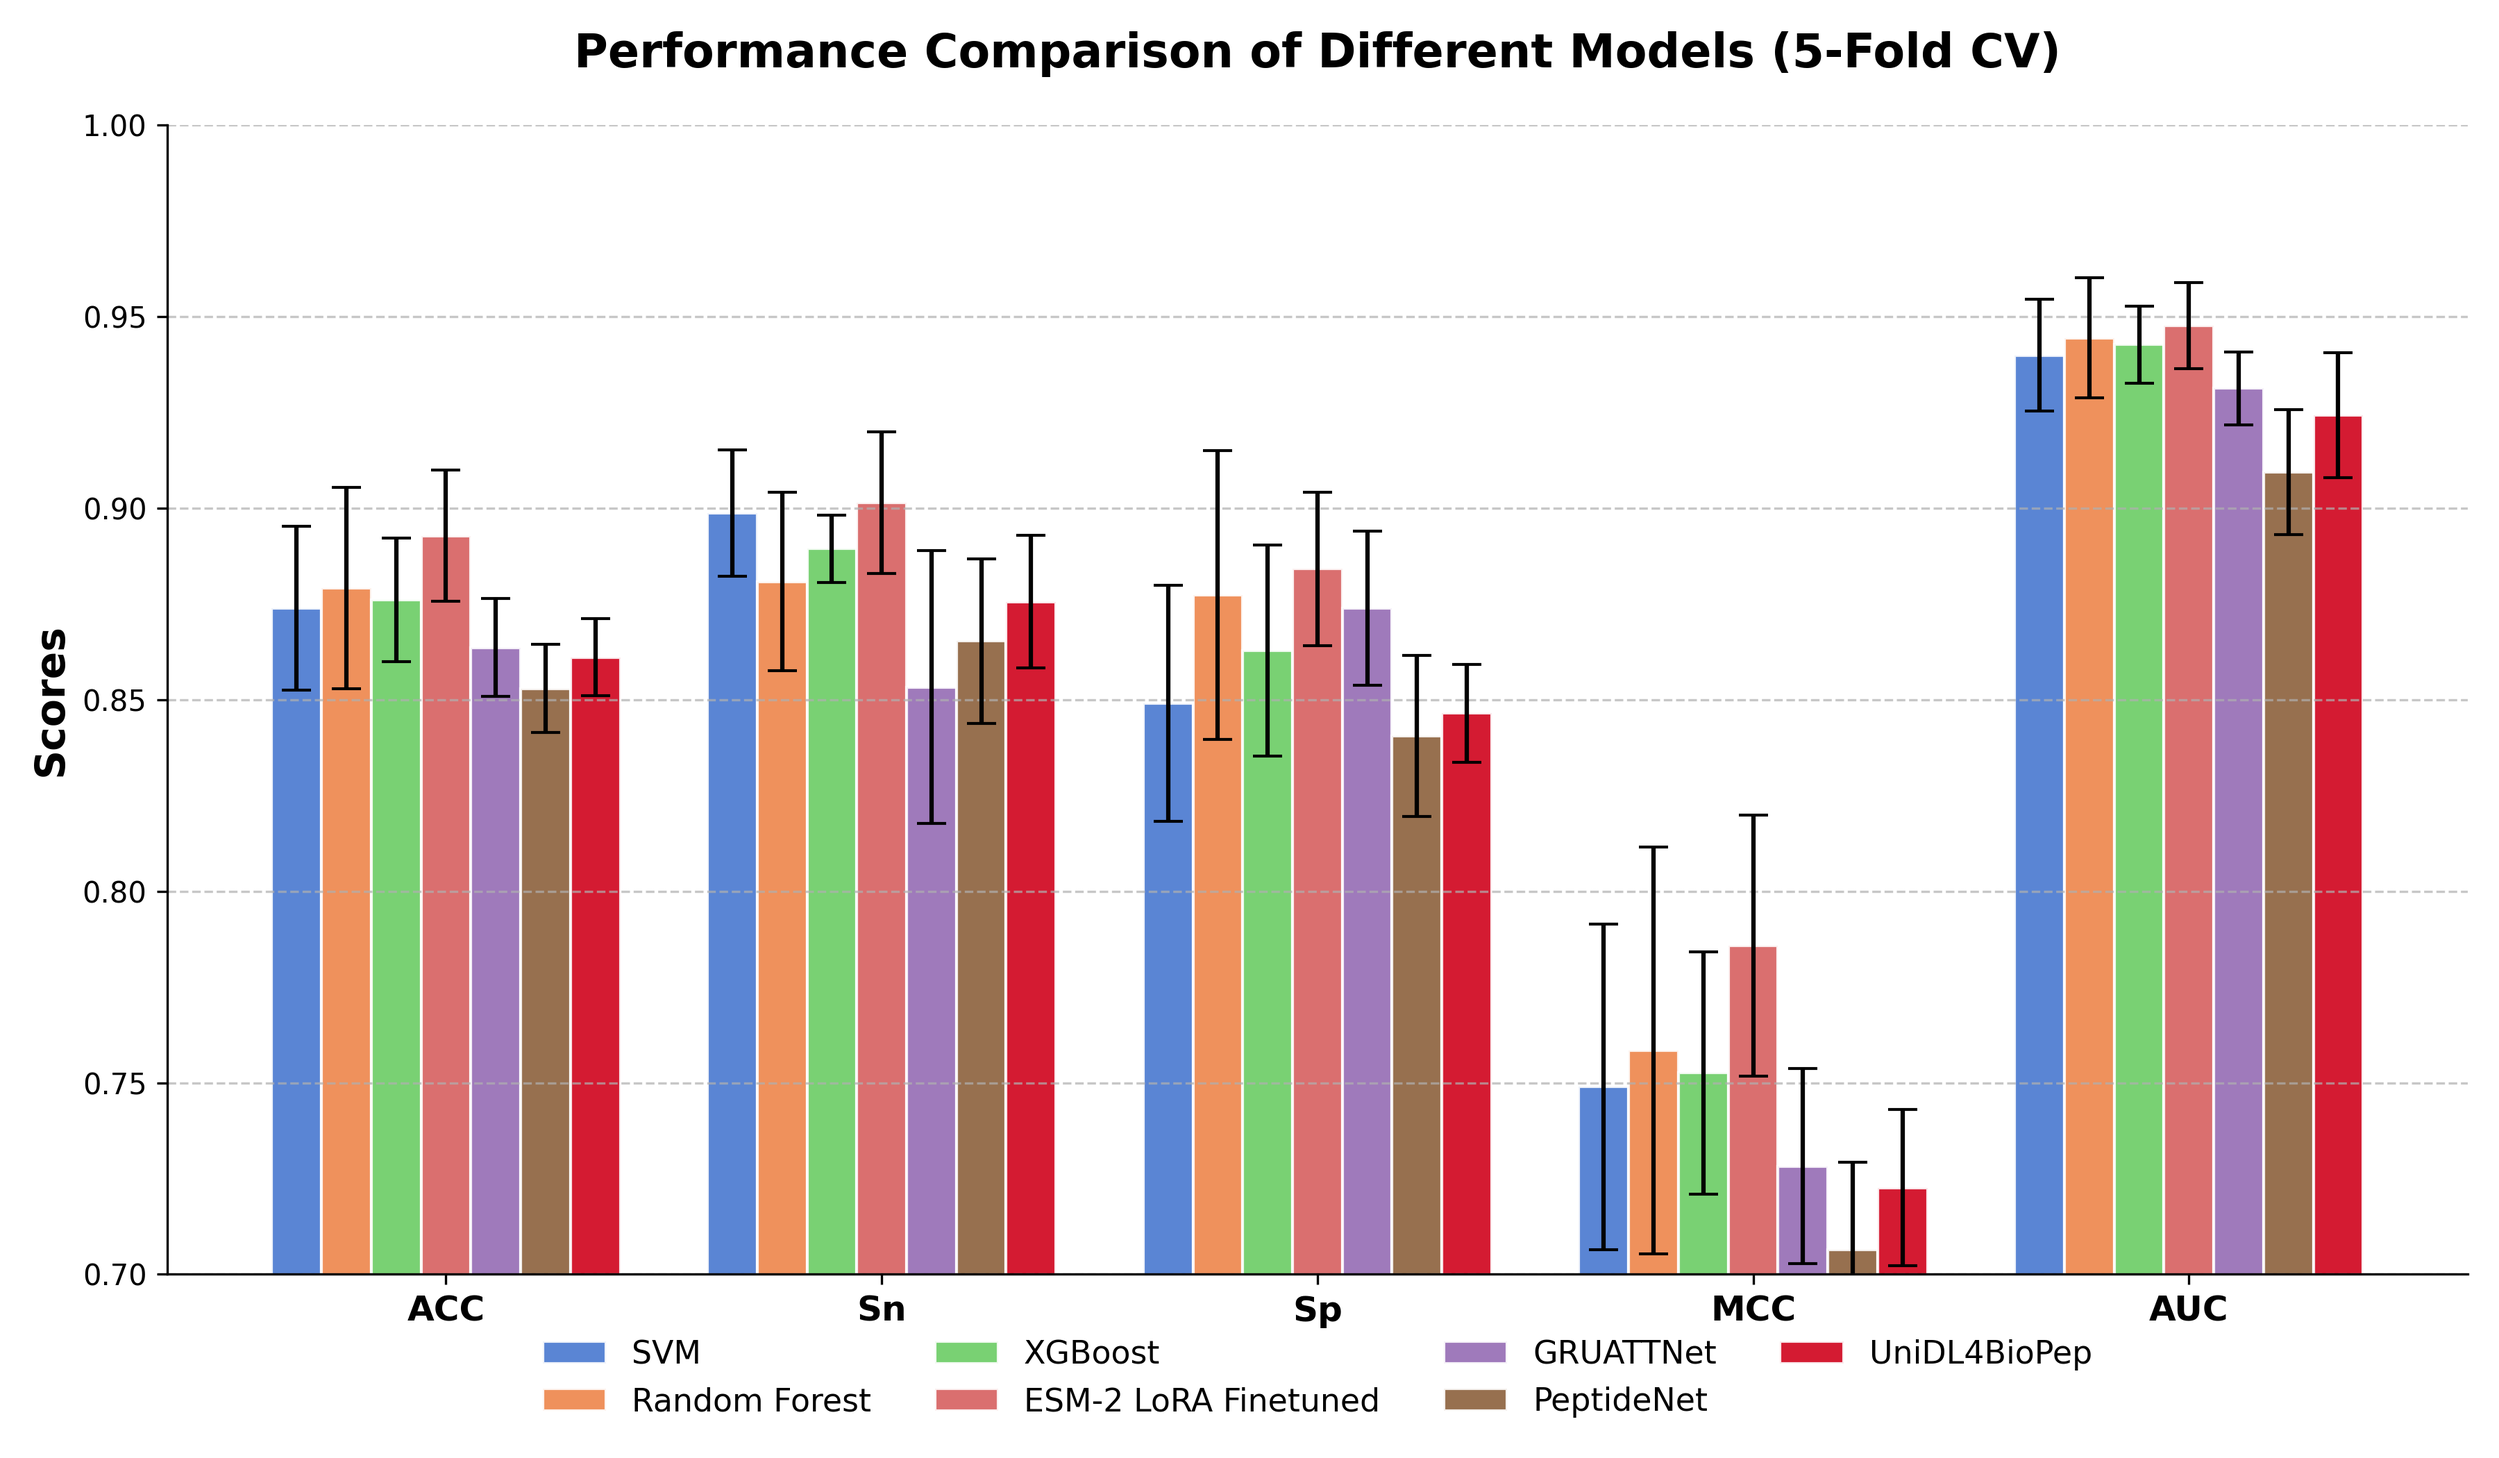
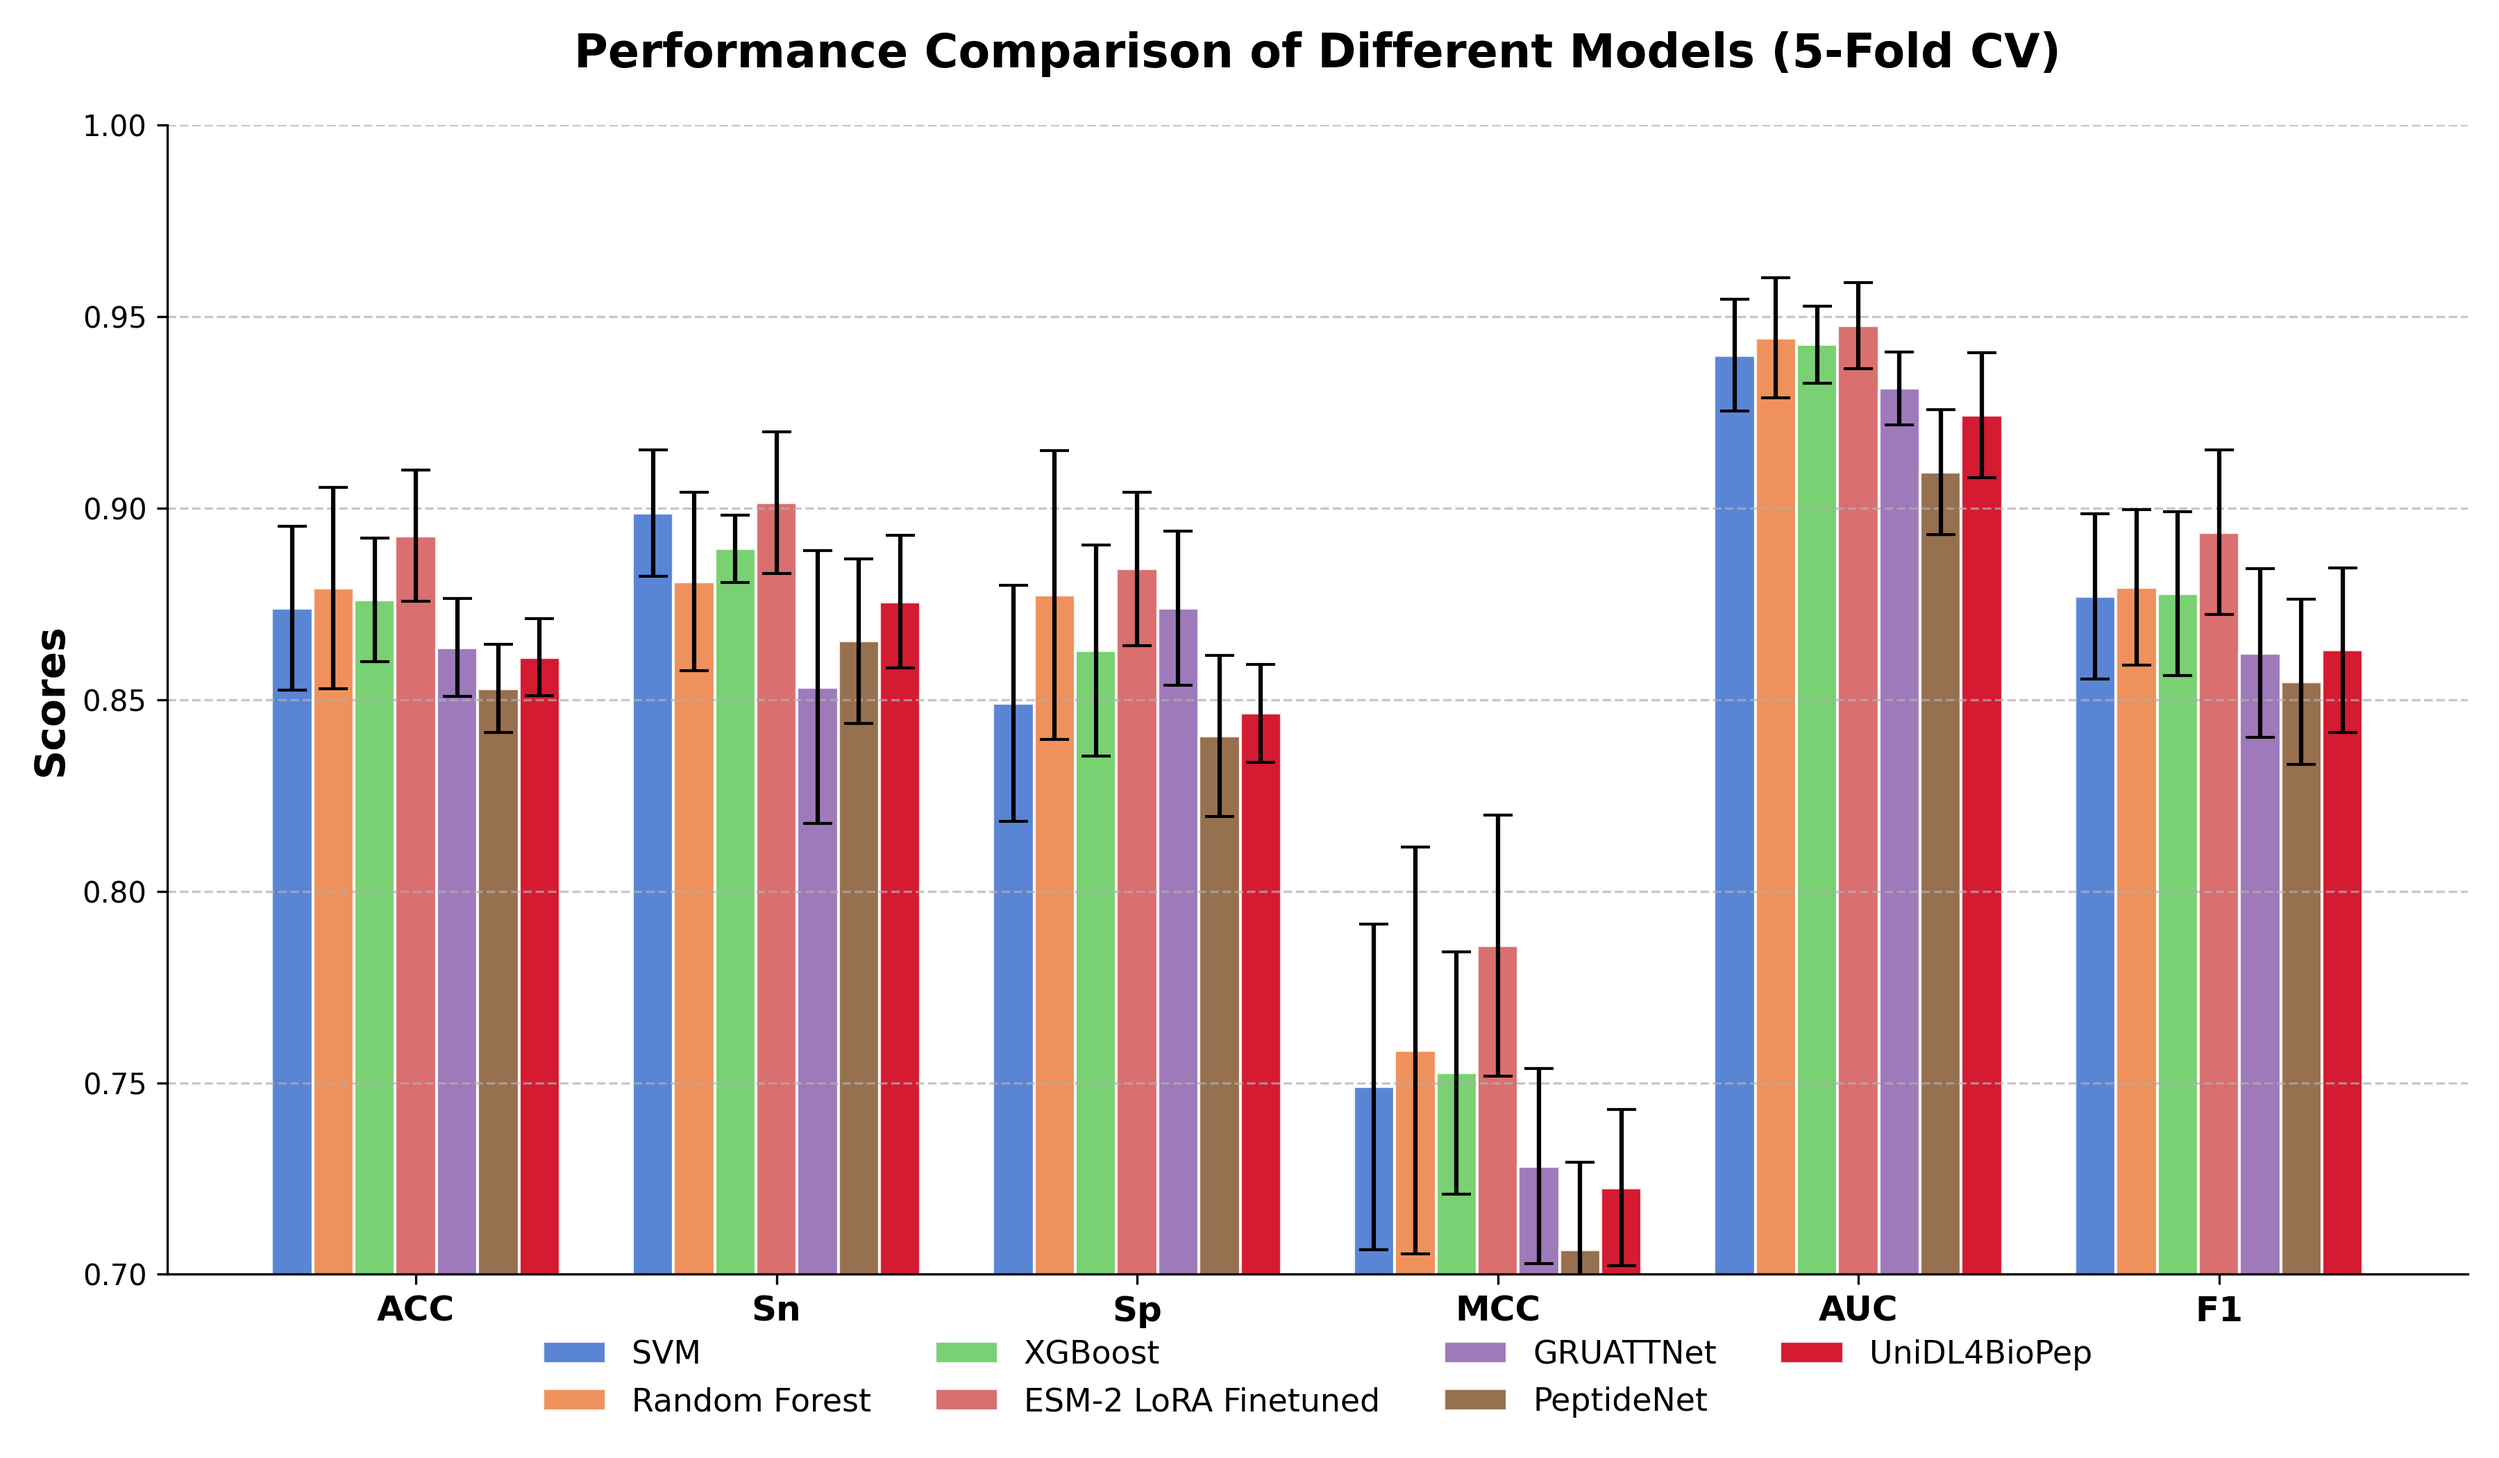
Update F1 metric calculation, visualization, and fix optimized results CSV

diff --git a/src/evaluation/interpretability.py b/src/evaluation/interpretability.py
@@ -1,0 +1,141 @@
+import os
+import pandas as pd
+import numpy as np
+import matplotlib.pyplot as plt
+import seaborn as sns
+from sklearn.manifold import TSNE
+import torch
+from transformers import AutoModel, AutoTokenizer
+
+def plot_tsne():
+    """
+    Reads ESM-2 features, applies t-SNE for dimensionality reduction,
+    and plots the result.
+    """
+    file_path = "data/processed/features_esm2.csv"
+    if not os.path.exists(file_path):
+        print(f"File {file_path} not found. Ensure features have been generated.")
+        return
+    
+    print("Loading features...")
+    df = pd.read_csv(file_path)
+    
+    if 'label' not in df.columns:
+        print(f"'label' column not found in {file_path}")
+        return
+        
+    labels = df['label']
+    
+    # Extract feature columns (usually all numeric columns except label and typical identifiers)
+    features = df.select_dtypes(include=[np.number]).drop(columns=['label'], errors='ignore')
+    
+    for non_feature_col in ['ID', 'id', 'Sequence', 'sequence']:
+        if non_feature_col in features.columns:
+            features = features.drop(columns=[non_feature_col])
+            
+    print("Performing t-SNE dimensionality reduction...")
+    tsne = TSNE(n_components=2, random_state=42)
+    features_2d = tsne.fit_transform(features)
+    
+    # Prepare DataFrame for plotting
+    plot_df = pd.DataFrame({
+        't-SNE 1': features_2d[:, 0],
+        't-SNE 2': features_2d[:, 1],
+        'label': labels.map({1: 'AVP', 0: 'AMP'})
+    })
+    
+    # Define colors
+    palette = {'AVP': 'darkred', 'AMP': 'darkblue'}
+    
+    print("Plotting t-SNE...")
+    plt.figure(figsize=(10, 8))
+    sns.scatterplot(
+        data=plot_df,
+        x='t-SNE 1',
+        y='t-SNE 2',
+        hue='label',
+        palette=palette,
+        alpha=0.7,
+        s=50
+    )
+    
+    plt.title("t-SNE Visualization of ESM-2 Representations", fontsize=16)
+    plt.legend(title='Peptide Type')
+    plt.tight_layout()
+    
+    out_path = "data/processed/tsne_plot.png"
+    out_dir = os.path.dirname(out_path)
+    if out_dir:
+        os.makedirs(out_dir, exist_ok=True)
+    
+    plt.savefig(out_path, dpi=300)
+    plt.close()
+    print(f"t-SNE plot successfully saved to {out_path}\n")
+
+
+def plot_attention():
+    """
+    Loads ESM-2 model, performs forward pass on a sample sequence,
+    and visualizes the attention weights of the last layer's first head.
+    """
+    model_name = "facebook/esm2_t30_150M_UR50D"
+    print(f"Loading tokenizer and model {model_name}...")
+    tokenizer = AutoTokenizer.from_pretrained(model_name)
+    # output_attentions=True is required to get attention weights
+    model = AutoModel.from_pretrained(model_name, output_attentions=True)
+    
+    sequence = "GLFDIVKKIAGHIAGSI"
+    print(f"Performing inference on sequence: {sequence}")
+    inputs = tokenizer(sequence, return_tensors="pt")
+    
+    with torch.no_grad():
+        outputs = model(**inputs)
+        
+    # Get attentions: tuple of length num_layers
+    # Each layer has shape (batch_size, num_heads, seq_len, seq_len)
+    attentions = outputs.attentions
+    
+    # Extract last layer (-1), first attention head (0), first batch item (0)
+    last_layer_attn = attentions[-1]
+    first_head_attn = last_layer_attn[0, 0, :, :].numpy()
+    
+    # Convert token IDs back to string tokens to use as labels
+    tokens = tokenizer.convert_ids_to_tokens(inputs['input_ids'][0])
+    
+    # Remove special tokens <cls> (index 0) and <eos> (index -1)
+    attn_matrix = first_head_attn[1:-1, 1:-1]
+    amino_acids = tokens[1:-1]
+    
+    print("Plotting attention heatmap...")
+    plt.figure(figsize=(10, 8))
+    sns.heatmap(
+        attn_matrix,
+        xticklabels=amino_acids,
+        yticklabels=amino_acids,
+        cmap="Blues",
+        square=True,
+        cbar_kws={'label': 'Attention Weight'}
+    )
+    
+    plt.title("Attention Heatmap (Last Layer, First Head)", fontsize=16)
+    plt.xlabel("Key", fontsize=12)
+    plt.ylabel("Query", fontsize=12)
+    
+    # Fix potential layout issues with ticks
+    plt.xticks(rotation=0)
+    plt.yticks(rotation=0)
+    plt.tight_layout()
+    
+    out_path = "data/processed/attention_heatmap.png"
+    out_dir = os.path.dirname(out_path)
+    if out_dir:
+        os.makedirs(out_dir, exist_ok=True)
+        
+    plt.savefig(out_path, dpi=300)
+    plt.close()
+    print(f"Attention heatmap successfully saved to {out_path}\n")
+
+
+if __name__ == "__main__":
+    plot_tsne()
+    plot_attention()

diff --git a/src/models/esm_lora_finetuning.py b/src/models/esm_lora_finetuning.py
@@ -8,7 +8,7 @@ import numpy as np
 from transformers import AutoTokenizer, EsmModel, get_cosine_schedule_with_warmup
 from peft import get_peft_model, LoraConfig
 from sklearn.model_selection import StratifiedKFold
-from sklearn.metrics import accuracy_score, matthews_corrcoef, confusion_matrix, roc_auc_score
+from sklearn.metrics import accuracy_score, matthews_corrcoef, confusion_matrix, roc_auc_score, f1_score
 from tqdm import tqdm
 
 # ==========================================
@@ -134,20 +134,22 @@ class AVPDataset(Dataset):
 # 4. 生信指标计算函数
 # ==========================================
 def calculate_bio_metrics(y_true, y_pred, y_prob):
-    """计算生物信息学常用指标：ACC, Sn, Sp, MCC, AUC"""
+    """计算生物信息学常用指标：ACC, Sn, Sp, MCC, AUC, F1"""
     tn, fp, fn, tp = confusion_matrix(y_true, y_pred).ravel()
     acc = accuracy_score(y_true, y_pred)
     sn = tp / (tp + fn) if (tp + fn) > 0 else 0.0  # Sensitivity / Recall
     sp = tn / (tn + fp) if (tn + fp) > 0 else 0.0  # Specificity
     mcc = matthews_corrcoef(y_true, y_pred)
     auc = roc_auc_score(y_true, y_prob)
+    f1 = f1_score(y_true, y_pred)
     
     return {
         'ACC': acc,
         'Sn': sn,
         'Sp': sp,
         'MCC': mcc,
-        'AUC': auc
+        'AUC': auc,
+        'F1': f1
     }
 
 # ==========================================
@@ -330,7 +332,7 @@ def run_lora_finetuning(dataset_path, output_dir="models/lora_weights"):
     std_metrics = df_metrics.std().to_dict()
     
     result_metrics = {}
-    for metric in ['ACC', 'Sn', 'Sp', 'MCC', 'AUC']:
+    for metric in ['ACC', 'Sn', 'Sp', 'MCC', 'AUC', 'F1']:
         result_metrics[metric] = mean_metrics[metric]
         result_metrics[f"{metric}_std"] = std_metrics[metric]
         

diff --git a/src/models/baseline_model_1.py b/src/models/baseline_model_1.py
@@ -7,7 +7,7 @@ import pandas as pd
 import numpy as np
 from transformers import AutoTokenizer, EsmModel, get_cosine_schedule_with_warmup
 from sklearn.model_selection import StratifiedKFold
-from sklearn.metrics import accuracy_score, matthews_corrcoef, confusion_matrix, roc_auc_score
+from sklearn.metrics import accuracy_score, matthews_corrcoef, confusion_matrix, roc_auc_score, f1_score
 from tqdm import tqdm
 
 # ==========================================
@@ -75,13 +75,15 @@ def calculate_bio_metrics(y_true, y_pred, y_prob):
     sp = tn / (tn + fp) if (tn + fp) > 0 else 0.0
     mcc = matthews_corrcoef(y_true, y_pred)
     auc = roc_auc_score(y_true, y_prob)
+    f1 = f1_score(y_true, y_pred)
     
     return {
         'ACC': acc,
         'Sn': sn,
         'Sp': sp,
         'MCC': mcc,
-        'AUC': auc
+        'AUC': auc,
+        'F1': f1
     }
 
 # ==========================================
@@ -310,7 +312,7 @@ def run_baseline_1(dataset_path, output_dir="models/baseline_1_weights"):
     std_metrics = df_metrics.std().to_dict()
     
     result_metrics = {}
-    for metric in ['ACC', 'Sn', 'Sp', 'MCC', 'AUC']:
+    for metric in ['ACC', 'Sn', 'Sp', 'MCC', 'AUC', 'F1']:
         result_metrics[metric] = mean_metrics[metric]
         result_metrics[f"{metric}_std"] = std_metrics[metric]
         

diff --git a/src/models/baseline_model_2.py b/src/models/baseline_model_2.py
@@ -7,7 +7,7 @@ import pandas as pd
 import numpy as np
 from transformers import AutoTokenizer, EsmModel, get_cosine_schedule_with_warmup
 from sklearn.model_selection import StratifiedKFold
-from sklearn.metrics import accuracy_score, matthews_corrcoef, confusion_matrix, roc_auc_score
+from sklearn.metrics import accuracy_score, matthews_corrcoef, confusion_matrix, roc_auc_score, f1_score
 from tqdm import tqdm
 
 # ==========================================
@@ -75,13 +75,15 @@ def calculate_bio_metrics(y_true, y_pred, y_prob):
     sp = tn / (tn + fp) if (tn + fp) > 0 else 0.0
     mcc = matthews_corrcoef(y_true, y_pred)
     auc = roc_auc_score(y_true, y_prob)
+    f1 = f1_score(y_true, y_pred)
     
     return {
         'ACC': acc,
         'Sn': sn,
         'Sp': sp,
         'MCC': mcc,
-        'AUC': auc
+        'AUC': auc,
+        'F1': f1
     }
 
 # ==========================================
@@ -312,7 +314,7 @@ def run_baseline_2(dataset_path, output_dir="models/baseline_2_weights"):
     std_metrics = df_metrics.std().to_dict()
     
     result_metrics = {}
-    for metric in ['ACC', 'Sn', 'Sp', 'MCC', 'AUC']:
+    for metric in ['ACC', 'Sn', 'Sp', 'MCC', 'AUC', 'F1']:
         result_metrics[metric] = mean_metrics[metric]
         result_metrics[f"{metric}_std"] = std_metrics[metric]
         

diff --git a/src/models/baseline_model_3.py b/src/models/baseline_model_3.py
@@ -7,7 +7,7 @@ import pandas as pd
 import numpy as np
 from transformers import AutoTokenizer, EsmModel, get_cosine_schedule_with_warmup
 from sklearn.model_selection import StratifiedKFold
-from sklearn.metrics import accuracy_score, matthews_corrcoef, confusion_matrix, roc_auc_score
+from sklearn.metrics import accuracy_score, matthews_corrcoef, confusion_matrix, roc_auc_score, f1_score
 from tqdm import tqdm
 
 # ==========================================
@@ -75,13 +75,15 @@ def calculate_bio_metrics(y_true, y_pred, y_prob):
     sp = tn / (tn + fp) if (tn + fp) > 0 else 0.0
     mcc = matthews_corrcoef(y_true, y_pred)
     auc = roc_auc_score(y_true, y_prob)
+    f1 = f1_score(y_true, y_pred)
     
     return {
         'ACC': acc,
         'Sn': sn,
         'Sp': sp,
         'MCC': mcc,
-        'AUC': auc
+        'AUC': auc,
+        'F1': f1
     }
 
 # ==========================================
@@ -293,7 +295,7 @@ def run_baseline_3(dataset_path, output_dir="models/baseline_3_weights"):
     std_metrics = df_metrics.std().to_dict()
     
     result_metrics = {}
-    for metric in ['ACC', 'Sn', 'Sp', 'MCC', 'AUC']:
+    for metric in ['ACC', 'Sn', 'Sp', 'MCC', 'AUC', 'F1']:
         result_metrics[metric] = mean_metrics[metric]
         result_metrics[f"{metric}_std"] = std_metrics[metric]
         

diff --git a/src/evaluation/visualization.py b/src/evaluation/visualization.py
@@ -80,10 +80,7 @@ def plot_metrics(csv_path="data/processed/optimized_results.csv", output_dir="da
     models = df['Model'].tolist()
     
     # Dynamically determine which metrics are available in the CSV
-    base_metrics = ['ACC', 'Sn', 'Sp', 'MCC', 'AUC']
-    metrics = [m for m in base_metrics if m in df.columns]
-    if 'F1' in df.columns:
-        metrics.append('F1')
+    metrics = ['ACC', 'Sn', 'Sp', 'MCC', 'AUC', 'F1']
     # Ensure metrics list is not empty
     if not metrics:
         print('No metric columns found in the CSV.')
@@ -152,7 +149,7 @@ def plot_metrics(csv_path="data/processed/optimized_results.csv", output_dir="da
     ax.set_theta_offset(pi / 2)
     ax.set_theta_direction(-1)
     ax.set_xticks(angles[:-1])
-    ax.set_xticklabels([m if m != 'ACC' else 'Accuracy' for m in metrics], fontsize=12, fontweight='bold')
+    ax.set_xticklabels(['Accuracy', 'Sensitivity', 'Specificity', 'MCC', 'AUC', 'F1 Score'], fontsize=12, fontweight='bold')
     ax.set_rlabel_position(0)
     plt.yticks([0.7, 0.8, 0.9, 1.0], ["0.7", "0.8", "0.9", "1.0"], color="grey", size=10)
     plt.ylim(0.7, 1.0)
